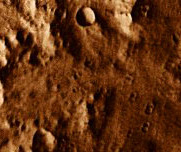
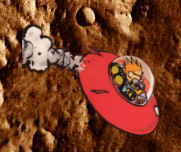
more

Changed region(s): [[0.1105, 0.1579, 0.884, 0.8947]]

diff --git a/breadcrumbs.js b/breadcrumbs.js
@@ -11,14 +11,12 @@ x disable mouse drag of images
 x disable mouse selection of images
 x control satelite with mousedown
 
-- tardis
-- waldo
-- carmen san diego
+x tardis
+x waldo
 x happy birthday delani
-- american flag
-- NASA rover moving slowly + tracks
-- other satelites flying around
-- spaceman spiff
+x american flag
+- NASA rover
+x spaceman spiff
 - bruno mars
 - calendrier mars
 - chocolat mars
@@ -258,5 +256,10 @@ extra_messages = [
     "BEWARE OF INVISIBLE UNICORNS",
     "SOLAR IRRADIANCE IS CURRENTLY  589.2 W/M^2",
     "TEMPERATURE IS CURRENTLY -30 F",
-    "SPONSORED BY JOHNNYCAB! WE HOPE YOU'VE ENJOYED THE RIDE"
+    "SPONSORED BY JOHNNYCAB! WE HOPE YOU'VE ENJOYED THE RIDE",
+    "HAVE YOU LOCATED THE TARDIS?",
+    "HAVE YOU FOUND WALDO?",
+    "HAVE YOU SEEN SPACEMAN SPIFF?",
+    "HAVE YOU FOUND THE FLAG?",
+    "HAVE YOU LOCATED THE ROVER?"
 ];
